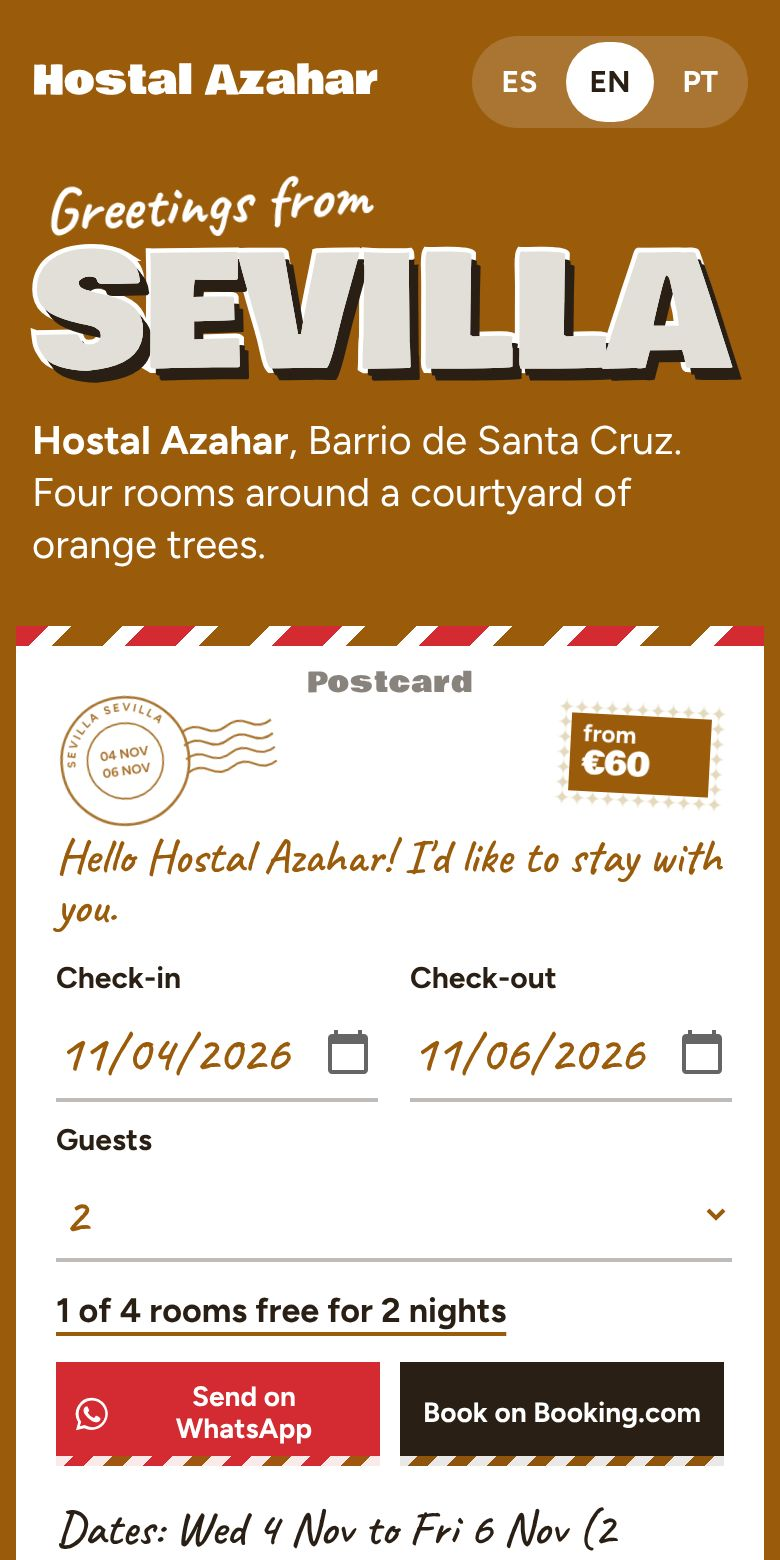
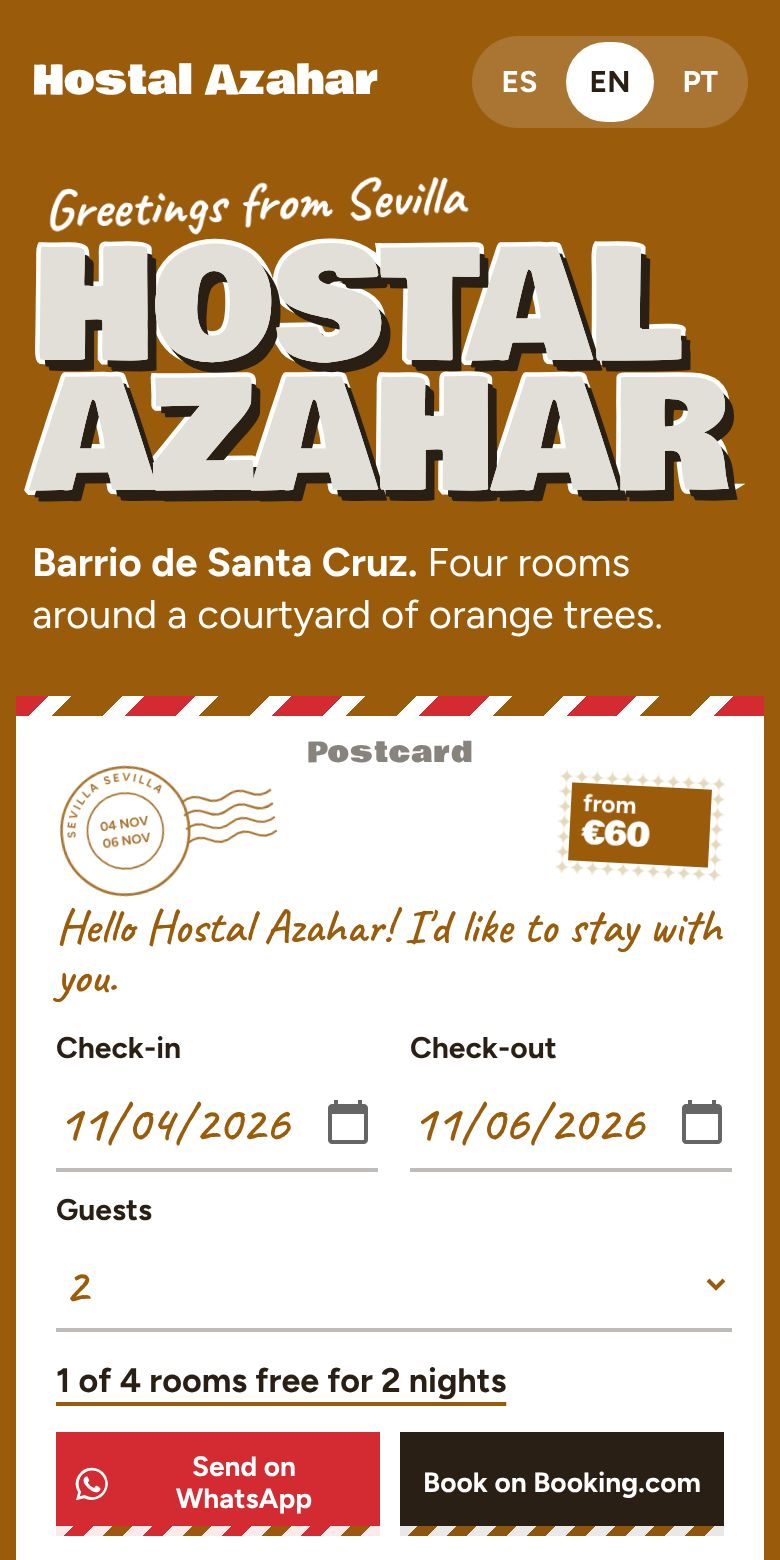
Make the hotel's name the headline, the place the greeting
The big photo-filled letters now spell the hotel's name (shortName when
set, e.g. ILHASUL) and 'Lembranças de Canasvieiras' becomes the
handwritten line above it. Sales page screenshots refreshed.

Claude-Session: https://claude.ai/code/session_013zbwyGJrX3ZgcnxGUucSkk

diff --git a/website/src/components/HotelView.tsx b/website/src/components/HotelView.tsx
@@ -118,7 +118,7 @@ export function HotelView({
       const stacked = lines.length > 1 && getComputedStyle(lines[0]).display === "block";
       const widest = stacked ? Math.max(...lines.map((l) => l.getBoundingClientRect().width)) : word.getBoundingClientRect().width;
       const ratio = box.clientWidth / widest;
-      box.style.fontSize = `${Math.min(100 * ratio * 0.97, 260)}px`;
+      box.style.fontSize = `${Math.min(100 * ratio * 0.97, 340)}px`;
     };
     fit();
     document.fonts?.ready.then(fit);
@@ -147,7 +147,8 @@ export function HotelView({
   const lowest = prices.length ? Math.min(...prices) : undefined;
   const maxGuests = Math.max(...hotel.rooms.map((r) => r.guests), 4);
   const [place, region] = placeParts(t(hotel.town, lang));
-  const [nameA, nameB] = splitName(place);
+  const bigName = hotel.shortName ?? hotel.name;
+  const [nameA, nameB] = splitName(bigName);
 
   const theme = {
     "--field": hotel.theme.accent,
@@ -162,7 +163,7 @@ export function HotelView({
     "--scene-ground": hotel.theme.ground,
     "--hero-photo": hotel.photo ? `url("${hotel.photo}")` : "none",
     "--hero-focus": hotel.photoFocus ?? "50% 50%",
-    "--letters": String(Math.max(place.length, 6)),
+    "--letters": String(Math.max(bigName.length, 6)),
   } as CSSProperties;
 
   function apply(next: Stay) {
@@ -212,9 +213,12 @@ export function HotelView({
       </header>
 
       <section className="pc-hero" aria-labelledby="hotel-name">
+        <p className="pc-script">
+          {d.greetings} {place}
+        </p>
         <h1 id="hotel-name" className="pc-greeting">
-          <span className="pc-script">{d.greetings}</span>
-          <span ref={lettersRef} className={`pc-letters${hotel.photo ? " has-photo" : ""}`} aria-label={place}>
+          <span className="visually-hidden">{hotel.name}</span>
+          <span ref={lettersRef} className={`pc-letters${hotel.photo ? " has-photo" : ""}`} aria-hidden="true">
             {[0, 1].map((layer) => (
               <span key={layer} className={layer ? "pc-letters-fill" : "pc-letters-keyline"} aria-hidden="true">
                 <span className="pc-line">{nameA}</span>
@@ -222,11 +226,9 @@ export function HotelView({
               </span>
             ))}
           </span>
-          <span className="visually-hidden">{`, ${hotel.name}`}</span>
         </h1>
         <p className="pc-tagline">
-          <strong>{hotel.name}</strong>
-          {region ? `, ${region}. ` : ". "}
+          {region && <strong>{region}. </strong>}
           {t(hotel.tagline, lang)}
         </p>
 

diff --git a/website/src/app/[lang]/h/[slug]/hotel.css b/website/src/app/[lang]/h/[slug]/hotel.css
@@ -62,7 +62,7 @@
 /* Hero: the town's name in large letters, filled with the hotel's photograph. */
 .pc-hero { padding: clamp(8px, 2vw, 28px) var(--gutter) 0; container-type: inline-size; }
 .pc-greeting { display: block; margin: 0; }
-.pc-script { display: block; font-family: var(--hand); font-weight: 700; font-size: clamp(2rem, 1.2rem + 3.2vw, 4.5rem); line-height: 1; transform: rotate(-3deg); transform-origin: left; margin-left: 0.2em; }
+.pc-script { display: block; margin: 0; font-family: var(--hand); font-weight: 700; font-size: clamp(1.75rem, 1rem + 2.6vw, 3.75rem); line-height: 1.05; transform: rotate(-2deg); transform-origin: left; margin-left: 0.2em; }
 .pc-letters { position: relative; display: block; font-family: var(--display); font-weight: 400; text-transform: uppercase; line-height: 0.84; letter-spacing: -0.01em; white-space: nowrap;
   /* First guess before the script measures and fits it exactly (Bowlby One capitals ~0.72em). */
   font-size: min(calc(100cqi / (var(--letters) * 0.72)), 16rem);

diff --git a/website/src/lib/hotels.ts b/website/src/lib/hotels.ts
@@ -35,6 +35,8 @@ export interface Room {
 export interface Hotel {
   slug: string;
   name: string;
+  /** The name as set in the big letters, when shorter than the full name ("Ilhasul" for "Hotel Ilhasul"). */
+  shortName?: string;
   /** Sample hotel: shows made-up bookings so the calendar isn't empty. */
   demo?: boolean;
   /** Hidden: not listed on the sales page and not shown to search engines (e.g. a pitch to a hotel). */
